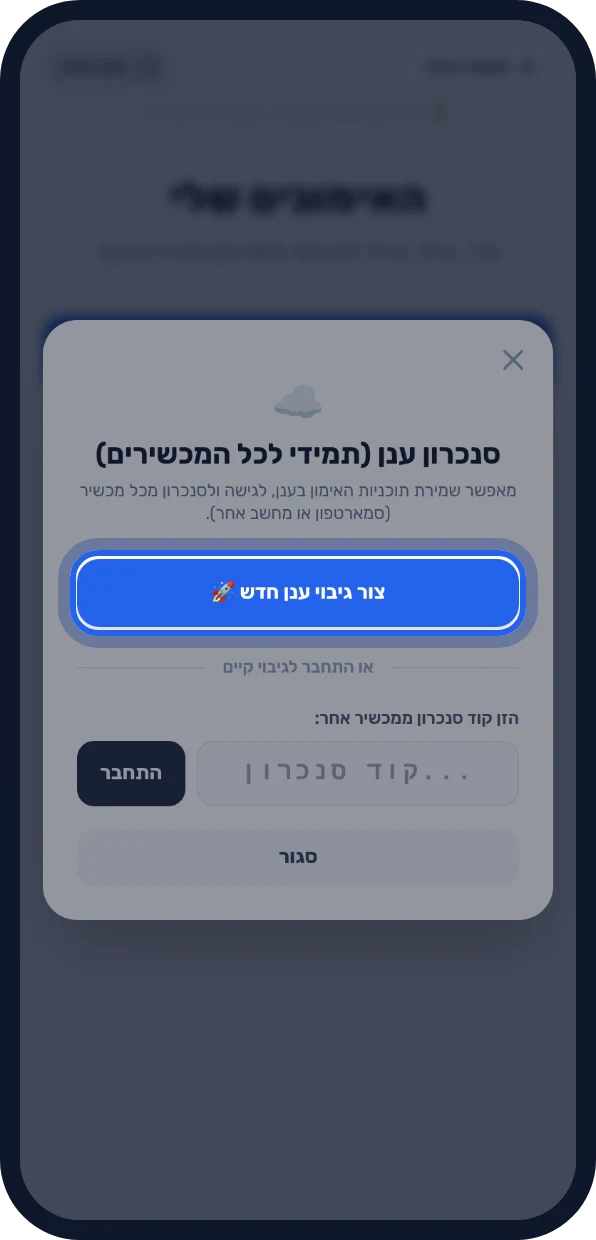
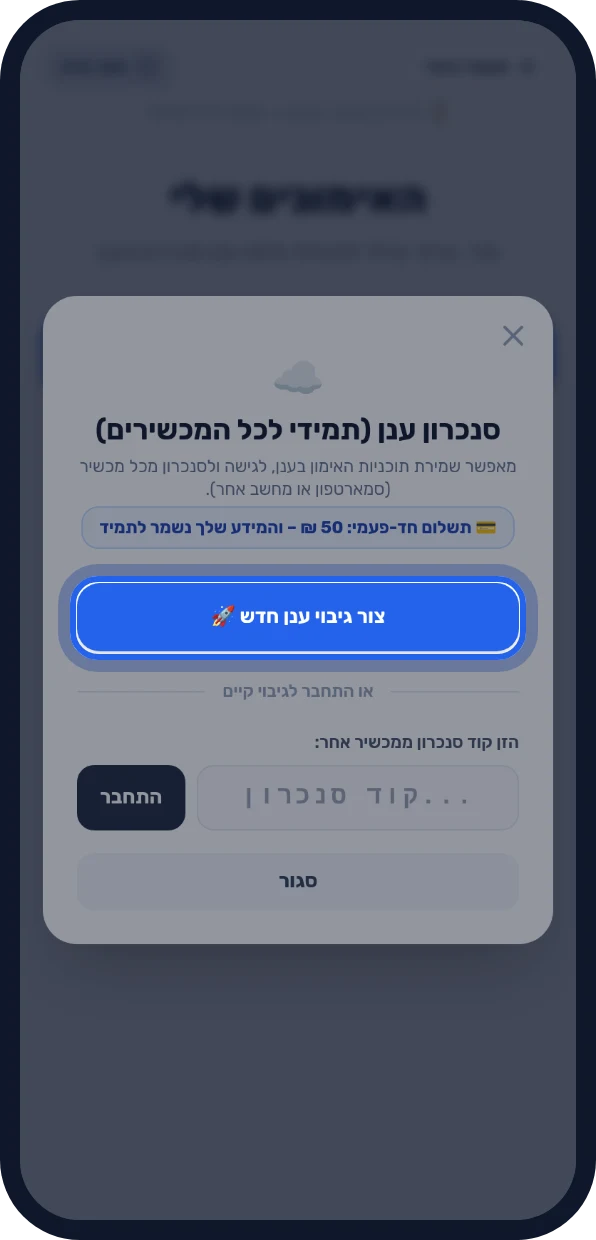
Explain the one-time 50 ILS payment for cloud backup [skip ci]
The cloud window, request form, pending screen, onboarding step and the
admin's WhatsApp opener now say that cloud backup is a one-time 50 ILS
payment, coordinated by WhatsApp or email, after which the code is sent
and the data is kept permanently.

Claude-Session: https://claude.ai/code/session_01Fy19mtiLyEsxqYJpD4La5u

diff --git a/index.html b/index.html
@@ -184,6 +184,7 @@
                 <div class="text-3xl">☁</div>
                 <h3 class="text-xl font-bold text-slate-900">סנכרון ענן (תמידי לכל המכשירים)</h3>
                 <p class="text-xs text-slate-500">מאפשר שמירת תוכניות האימון בענן, לגישה ולסנכרון מכל מכשיר (סמארטפון או מחשב אחר).</p>
+                <div class="inline-block bg-blue-50 border border-blue-200 text-blue-800 text-xs font-bold px-3 py-1.5 rounded-xl mt-1">💳 תשלום חד-פעמי: 50 ₪ – והמידע שלך נשמר לתמיד</div>
             </div>
             
             <div id="cloudUnconnectedView" class="space-y-4 pt-2">
@@ -210,7 +211,7 @@
 
             <!-- בקשת גישה ליצירת קוד ענן -->
             <form id="cloudRequestView" onsubmit="submitAccessRequest(event)" class="hidden space-y-3 pt-2">
-                <p class="text-xs text-slate-500 text-center">יצירת קוד ענן דורשת אישור. מלא את הפרטים והבקשה תישלח לאישור. לאחר האישור הקוד יישלח אליך במייל ובוואטסאפ.</p>
+                <p class="text-xs text-slate-500 text-center">השמירה בענן היא <b class="text-slate-800">בתשלום חד-פעמי של 50 ₪</b>, והמידע שלך נשמר לתמיד. מלא את הפרטים – ניצור איתך קשר בוואטסאפ או במייל לתיאום התשלום, ומיד לאחר מכן יישלח אליך קוד הענן.</p>
                 <div>
                     <label class="block text-xs font-semibold text-slate-600 mb-1">שם מלא</label>
                     <input type="text" id="reqName" required maxlength="80" class="w-full bg-slate-50 border border-slate-200 rounded-xl px-3 py-2 text-sm focus:outline-none focus:ring-2 focus:ring-blue-500">
@@ -228,7 +229,7 @@
                     <textarea id="reqMessage" rows="2" maxlength="500" placeholder="לדוג': אני רוצה לסנכרן את האימונים בין הטלפון למחשב" class="w-full bg-slate-50 border border-slate-200 rounded-xl px-3 py-2 text-sm focus:outline-none focus:ring-2 focus:ring-blue-500"></textarea>
                 </div>
                 <button type="submit" id="reqSubmitBtn" class="w-full bg-blue-600 hover:bg-blue-700 text-white font-bold py-3.5 px-4 rounded-2xl shadow-md transition-all active:scale-95 text-sm">
-                    שלח בקשה לאישור
+                    שלח בקשה
                 </button>
                 <button type="button" onclick="openCloudModal()" class="w-full text-slate-500 hover:text-slate-700 font-semibold text-xs py-1">חזרה</button>
             </form>
@@ -237,7 +238,7 @@
             <div id="cloudPendingView" class="hidden space-y-4 text-center pt-2">
                 <div class="bg-amber-50 border border-amber-200 rounded-2xl p-4 space-y-2">
                     <h4 id="pendingTitle" class="font-bold text-amber-800 text-base">הבקשה נשלחה ⏳</h4>
-                    <p id="pendingText" class="text-xs text-amber-700">ממתין לאישור. ברגע שהבקשה תאושר, קוד הענן יישלח אליך במייל ובוואטסאפ. הזן אותו כאן כדי להתחבר.</p>
+                    <p id="pendingText" class="text-xs text-amber-700">ניצור איתך קשר בוואטסאפ או במייל לתיאום התשלום החד-פעמי (50 ₪). לאחר התשלום קוד הענן יישלח אליך – הזן אותו כאן כדי להתחבר.</p>
                 </div>
                 <div class="flex gap-2">
                     <input type="text" id="pendingSyncId" placeholder="קוד סנכרון..." dir="ltr" class="flex-1 min-w-0 bg-slate-50 border border-slate-200 rounded-xl px-3 py-2 text-center font-mono font-bold text-lg tracking-widest uppercase focus:outline-none focus:ring-2 focus:ring-blue-500">

diff --git a/src/onboarding.js b/src/onboarding.js
@@ -8,7 +8,7 @@ const STEPS = [
     { img: 'step4', title: 'סיימתם את החזרות?', text: 'בתרגיל לפי חזרות הטיימר מחכה לכם. לוחצים <b>"בוצע!"</b> כדי לעבור הלאה.' },
     { img: 'step5', title: 'מסך אדום = מנוחה', text: 'נושמים ומתכוננים לתרגיל הבא. אפשר <b>להשהות</b> או <b>לסיים</b> את האימון בכל רגע.' },
     { img: 'step6', title: 'מסך מלא ושמירה מקומית', text: '<b>"מסך מלא"</b> נשאר גם אחרי כיבוי המסך. התוכניות נשמרות במכשיר <b>לשבוע בלבד</b> – מועד האיפוס מופיע למעלה.' },
-    { img: 'step7', title: 'שומרים בענן – לתמיד ☁', text: 'לוחצים <b>"סנכרון ענן"</b> ← <b>"צור גיבוי ענן חדש"</b> ושולחים בקשה. מקבלים קוד אישי, והאימונים נשמרים לתמיד ומסתנכרנים בין מכשירים.' },
+    { img: 'step7', title: 'שומרים בענן – לתמיד ☁', text: 'בתשלום <b>חד-פעמי של 50 ₪</b> – והמידע שלכם נשמר לתמיד. לוחצים <b>"סנכרון ענן"</b> ← <b>"צור גיבוי ענן חדש"</b>, ניצור קשר לתיאום התשלום בוואטסאפ או במייל, ואז תקבלו קוד אישי.' },
 ];
 
 const root = document.getElementById('onboarding');

diff --git a/src/admin.js b/src/admin.js
@@ -66,7 +66,7 @@ function requestCard(id, r, highlighted) {
     const talk = `
         <div class="grid grid-cols-2 gap-2">
             <a href="tel:+${esc(r.phone)}" class="block text-center bg-slate-100 hover:bg-slate-200 text-slate-700 font-bold py-2.5 rounded-xl text-sm">📞 התקשר</a>
-            <a href="${whatsappLink(r.phone, `היי ${r.name}, קיבלתי את הבקשה שלך לקוד ענן באפליקציית האימונים 🙂`)}" target="_blank" rel="noopener" class="block text-center bg-slate-100 hover:bg-slate-200 text-slate-700 font-bold py-2.5 rounded-xl text-sm">💬 צ'אט בוואטסאפ</a>
+            <a href="${whatsappLink(r.phone, `היי ${r.name}, קיבלתי את הבקשה שלך לשמירה בענן באפליקציית Train&Fit 🙂\nהשירות בתשלום חד-פעמי של 50 ₪, והמידע שלך נשמר לתמיד. איך נוח לך לשלם?`)}" target="_blank" rel="noopener" class="block text-center bg-slate-100 hover:bg-slate-200 text-slate-700 font-bold py-2.5 rounded-xl text-sm">💬 צ'אט בוואטסאפ</a>
         </div>`;
     const actions = r.status === 'pending' ? `${talk}
         <div class="flex gap-2">

diff --git a/src/cloud.js b/src/cloud.js
@@ -197,13 +197,13 @@ window.submitAccessRequest = async function (e) {
 
         watchRequest(ref.id);
         showCloudView('cloudPendingView');
-        window.showToast('הבקשה נשלחה לאישור ✅');
+        window.showToast('הבקשה נשלחה ✅ ניצור איתך קשר לתיאום התשלום');
     } catch (err) {
         console.error(err);
         window.showToast('שליחת הבקשה נכשלה, נסה שוב');
     } finally {
         btn.disabled = false;
-        btn.innerText = 'שלח בקשה לאישור';
+        btn.innerText = 'שלח בקשה';
     }
 };
 
